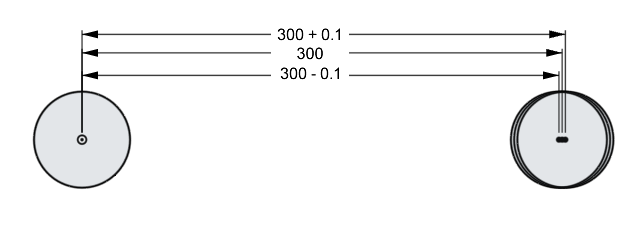
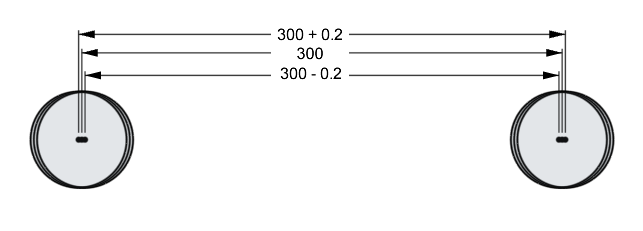
extending and correcting lession 3

diff --git a/ordered_lessons/lesson3.md b/ordered_lessons/lesson3.md
@@ -25,13 +25,15 @@ If the four legs of the printer isn't exactly the same length, you can use adjus
 
 This printer is much cheaper to build than my Hephaestus 3D printer or my Ultimaker 2, one expensive part of Hephaestus is the usage of water-jet cut aluminum sheets to make sure all the rods are mounted in perfect position. Let me explain with an example
 
-The water-jet machine is specified to have a tolerance of +/- 0.1mm. If I design one sheet of aluminum to have two holes exactly 300mm apart, then I might end up with a sheet that has holes could be 299.99mm apart, or 300.1mm apart. That's pretty good.
+The water-jet machine is specified to have a tolerance of +/- 0.1mm. If I design one sheet of aluminum to have two holes exactly 300mm apart, then I might end up with a sheet that has holes could be 299.8mm apart, or 300.2mm apart. That's pretty good.
 
 ![](../images/lesson3/singleerrortolerance.png)
 
 The new design is basically two 3D printed parts, each one with a hole, mounted with a 2020 aluminum beam in between. Pretend my 3D printer can print with a tolerance of +/- 0.1mm, and the aluminum beam was cut on both ends with +/- 0.2mm tolerance. Now the maximum and minimum possible distance between the holes are much more wrong:
 
 ![](../images/lesson3/stackingerrors.png)
+
+(the above diagram ignored the tolerances of the ball bearings themselves)
 
 It will be incredibly hard to measure the spacing of two rods across the entire printer, so we are not going to bother, or even care. What's more important is that all the rods running along the X axis are parallel with each other, and the same for the Y axis. Remember that parallel lines will form a plane, and now we have two planes, one formed by the X rods, and another one formed by the Y rods. These two planes must be parallel. Being parallel is more important than the distance between these two planes.
 
@@ -102,10 +104,18 @@ When you screw the plastic clamp down to the aluminum beam, the plastic will squ
 
 ![](../images/lesson3/gapforces.png)
 
-Pretend the Z axis rod is made with +/- 0.05mm diameter tolerance, the aluminum beam has a width tolerance of +/- 0.05mm, and the 3D printed plastic has a dimensional tolerance of +/- 0.1mm, what is the advantage of this design over a piece of plastic surrounding the entire Z axis rod?
+Remember that there's a chance that the 3D printer that prints this plastic clamp will have its own tolerance, and also it can over- or under-extrude depending on the filament and print settings. You might end up with a rod bigger or smaller than the hole. We want to be able to handle this situation.
 
-![](picture tomorrow)
+![](../images/lesson3/zrodholdertolerancesituations.png)
 
-The same principle is applied to the sliding block part that holds a graphite bushing and the middle axis steel rods. Have a look:
+See how our design with the U shape and the gap can handle these situations just fine.
+
+Pretend the Z axis rod is made with +/- 0.1mm diameter tolerance (ie. +/- 0.05mm radius tolerance), the aluminum beam has a width tolerance of +/- 0.05mm, and the 3D printed plastic has a dimensional tolerance of +/- 0.2mm, what is the advantage of this design over a piece of plastic surrounding the entire Z axis rod?
+
+![](../images/lesson3/zrodholdertotalerrors.png)
+
+As you can see, butting up the metal rod against another chunk of metal is clearly the best way to go. It has better overall positional tolerance and handles more errors in manufacturing.
+
+The same principle is applied to the sliding block part that holds a brass graphite bushing and the middle axis steel rods. Have a look:
 
 ![](../images/lesson3/slidingblockgap.png)
